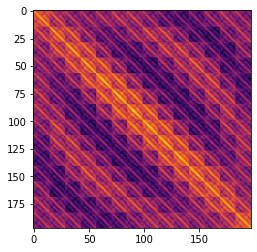
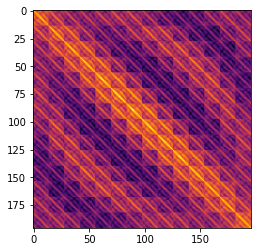
chore: added generated files.

diff --git a/examples/vision/md/probing_vits.md b/examples/vision/md/probing_vits.md
@@ -201,8 +201,8 @@ print("Model loaded.")
 ```
 Downloading...
 From: https://drive.google.com/uc?id=1mbtnliT3jRb3yJUHhbItWw8unfYZw8KJ
-To: /content/keras-io/scripts/tmp_3620444/vit_b16_patch16_224.zip
-100%|██████████| 322M/322M [00:01<00:00, 218MB/s]
+To: /content/keras-io/scripts/tmp_9651264/vit_b16_patch16_224.zip
+100%|██████████| 322M/322M [00:03<00:00, 106MB/s]
 
 Model loaded.
 
@@ -382,8 +382,7 @@ notice the following:
 
 | Pretrained on ImageNet-21k<br>Fine-tuned on ImageNet-1k | Pretrained on ImageNet-1k |
 | :--: | :--: |
-| ![](https://drive.google.com/uc?export=view&id=1aFob5Cj0FkRyVhH4Iw7Dh5SFxQH3rpYs) |
-![](https://drive.google.com/uc?export=view&id=13Y-3Ypi58PPRqd-pqP1oHkyNkRHCYypH)
+| ![](https://drive.google.com/uc?export=view&id=1aFob5Cj0FkRyVhH4Iw7Dh5SFxQH3rpYs) | ![](https://drive.google.com/uc?export=view&id=13Y-3Ypi58PPRqd-pqP1oHkyNkRHCYypH) |
 
 
 * When distilled from a CNN ViTs tend to have less global attention spans:
@@ -391,9 +390,7 @@ notice the following:
 
 | No distillation (ViT B-16 from DeiT) | Distilled ViT B-16 from DeiT |
 | :--: | :--: |
-| ![](https://drive.google.com/uc?export=view&id=1yH4cPQcMFCnuo3-IW3S9Baszr_d0o2Se) |
-![](https://drive.google.com/uc?export=view&id=1m_nG12kq7E_zIEkxhsi7U0Xr_VDXhJYE)
-
+| ![](https://drive.google.com/uc?export=view&id=1yH4cPQcMFCnuo3-IW3S9Baszr_d0o2Se) | ![](https://drive.google.com/uc?export=view&id=1m_nG12kq7E_zIEkxhsi7U0Xr_VDXhJYE) |
 
 To reproduce these plots, please refer to
 [this notebook](https://github.com/sayakpaul/probing-vits/blob/main/notebooks/mean-attention-distance-1k.ipynb).
@@ -522,8 +519,8 @@ predictions, attention_score_dict = vit_dino_base16.predict(preprocessed_image)
 ```
 Downloading...
 From: https://drive.google.com/uc?id=16_1oDm0PeCGJ_KGBG5UKVN7TsAtiRNrN
-To: /content/keras-io/scripts/tmp_3620444/vit_dino_base16.zip
-100%|██████████| 326M/326M [00:05<00:00, 64.4MB/s]
+To: /content/keras-io/scripts/tmp_9651264/vit_dino_base16.zip
+100%|██████████| 326M/326M [00:04<00:00, 81.4MB/s]
 
 Model loaded.
 
@@ -684,7 +681,7 @@ Clipping input data to the valid range for imshow with RGB data ([0..1] for floa
 
 ### Inspecting the plots
 
-*What do the projection filters learn?*
+**What do the projection filters learn?**
 
 [When visualized](https://distill.pub/2017/feature-visualization/),
 the kernels of a convolutional neural network show
@@ -712,7 +709,11 @@ taking their dot-product.
 
 ```python
 position_embeddings = vit_base_i21k_patch16_224.layers[1].positional_embedding.numpy()
-position_embeddings = position_embeddings.squeeze()
+
+# Discard the batch dimension and the position embeddings of the
+# cls token.
+position_embeddings = position_embeddings.squeeze()[1:, ...]
+
 similarity = position_embeddings @ position_embeddings.T
 plt.imshow(similarity, cmap="inferno")
 plt.show()
@@ -758,8 +759,7 @@ custom images using our Hugging Face spaces.
 
 | Attention Heat Maps | Attention Rollout |
 | :--: | :--: |
-| [![Generic badge](https://img.shields.io/badge/🤗%20Spaces-Attention%20Heat%20Maps-black.svg)](https://huggingface.co/spaces/probing-vits/attention-heat-maps) |
-[![Generic badge](https://img.shields.io/badge/🤗%20Spaces-Attention%20Rollout-black.svg)](https://huggingface.co/spaces/probing-vits/attention-rollout) |
+| [![Generic badge](https://img.shields.io/badge/🤗%20Spaces-Attention%20Heat%20Maps-black.svg)](https://huggingface.co/spaces/probing-vits/attention-heat-maps) | [![Generic badge](https://img.shields.io/badge/🤗%20Spaces-Attention%20Rollout-black.svg)](https://huggingface.co/spaces/probing-vits/attention-rollout) |
 
 ---
 ## Acknowledgements
